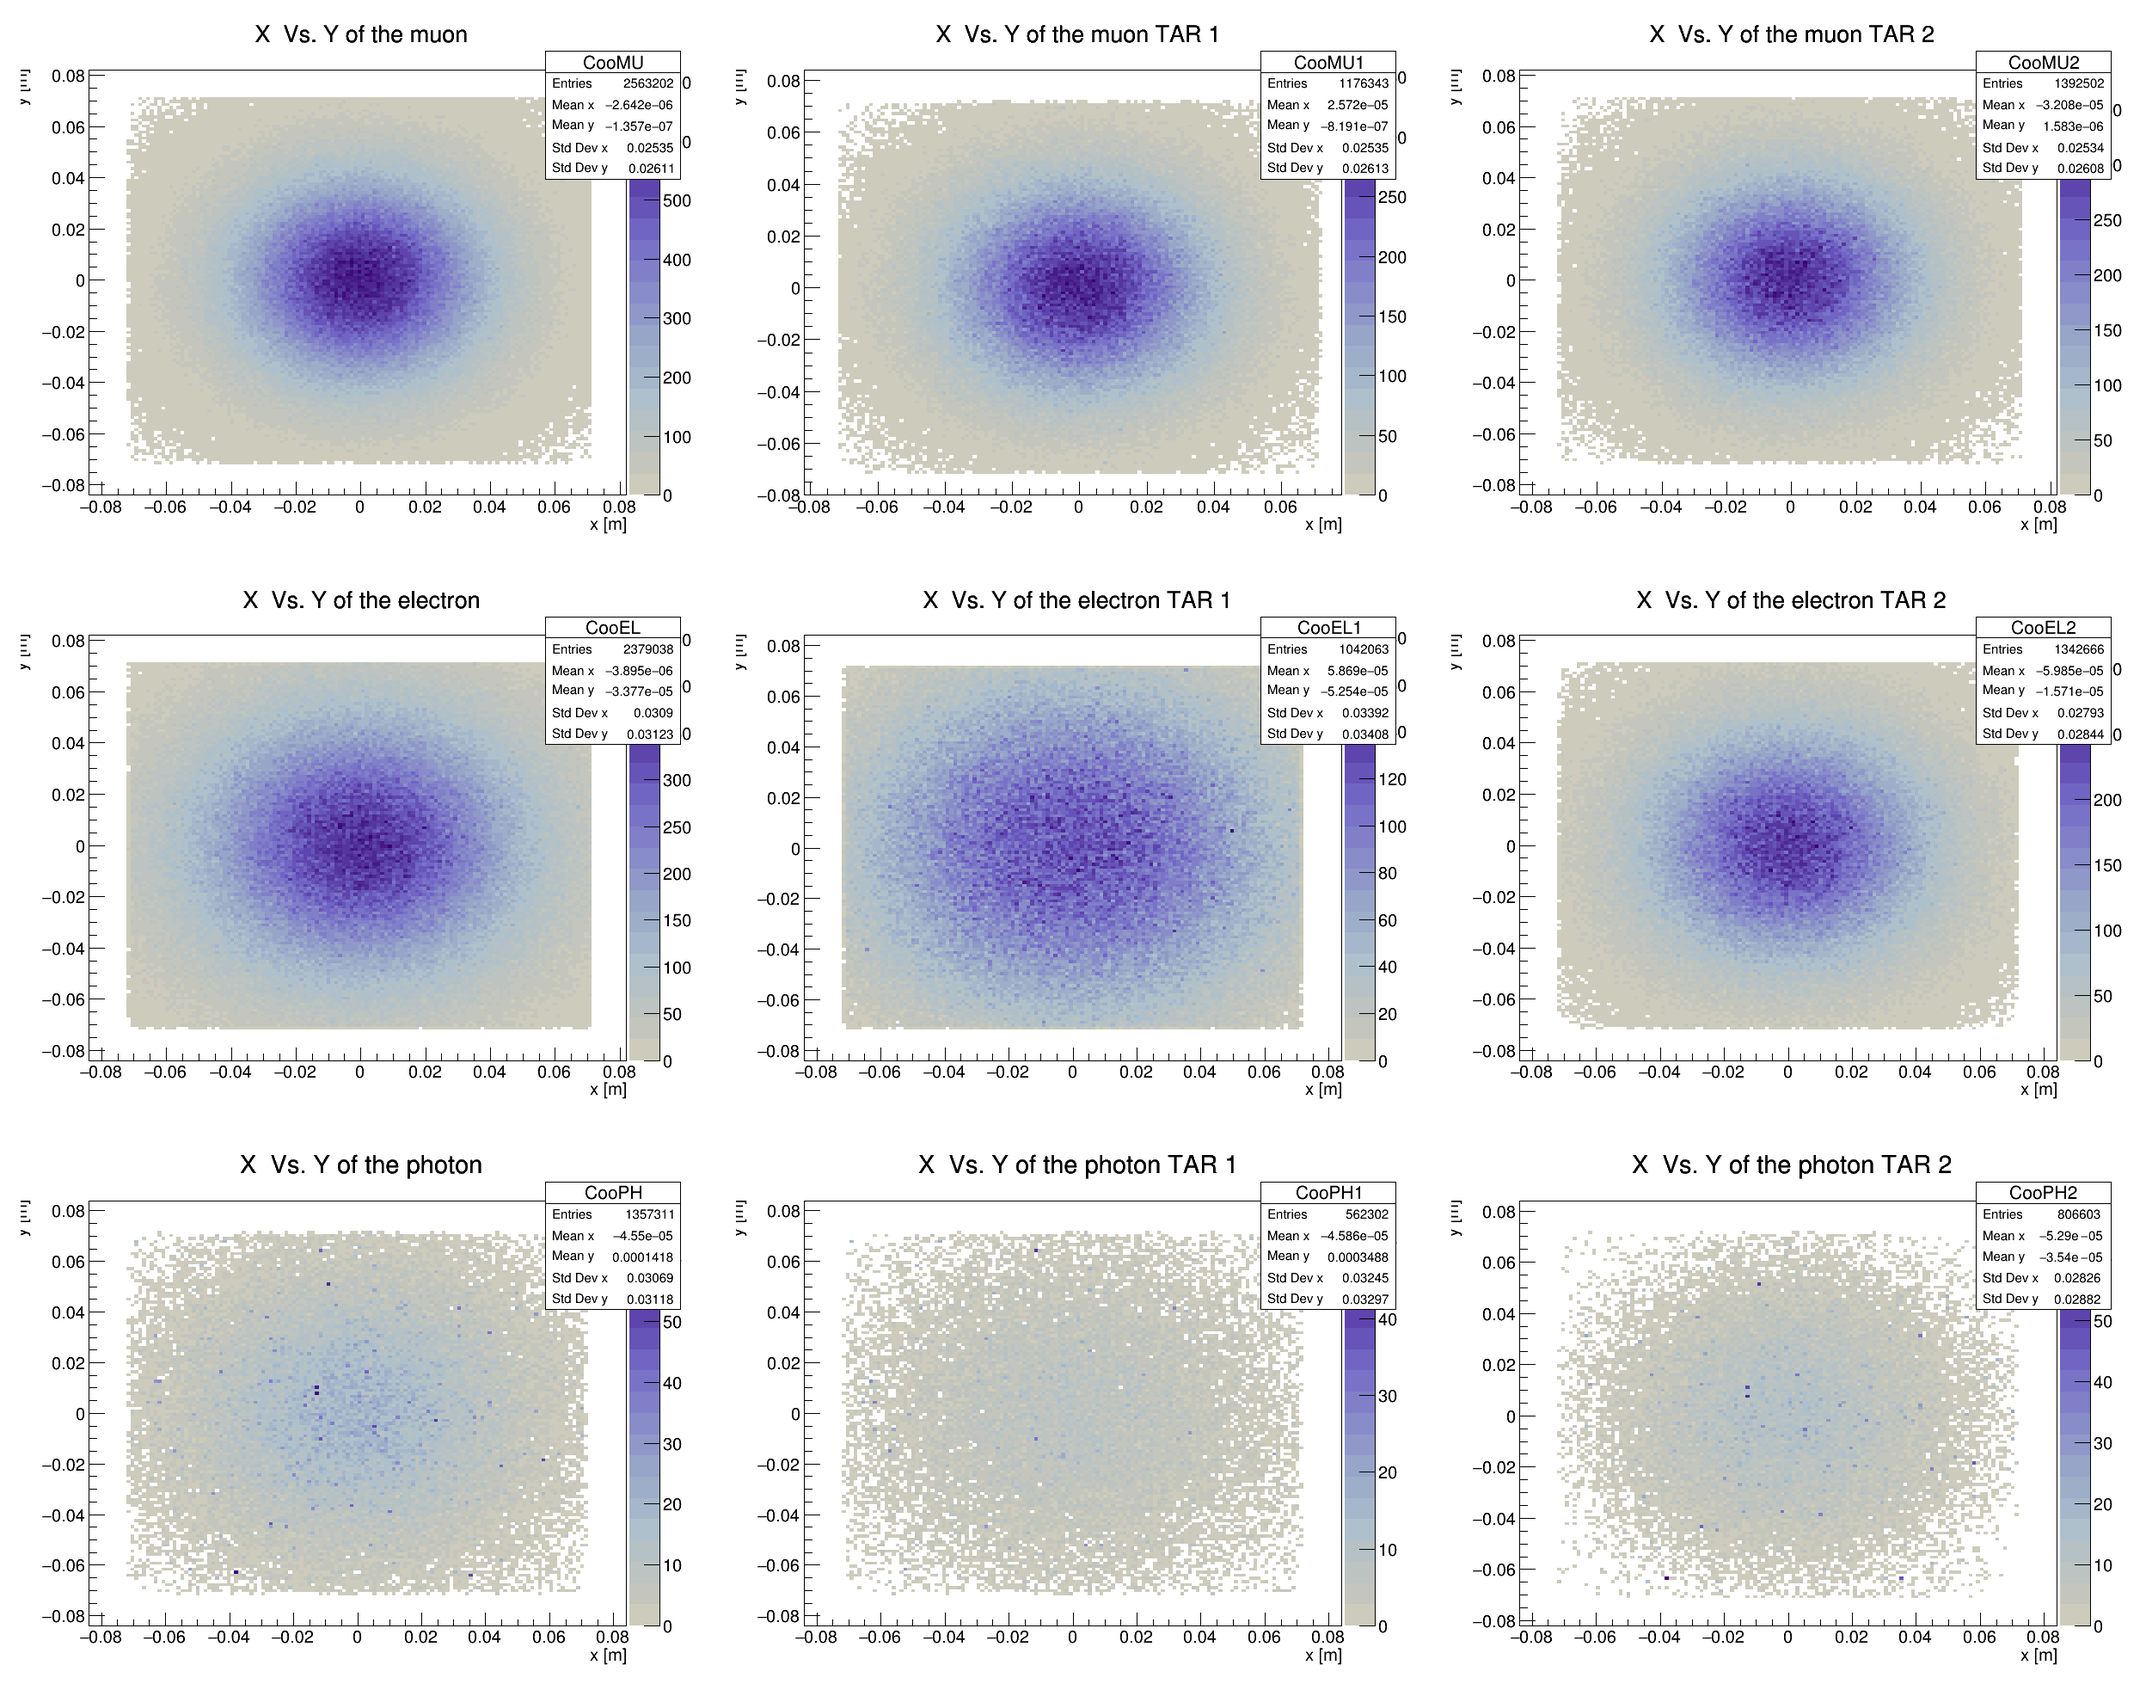
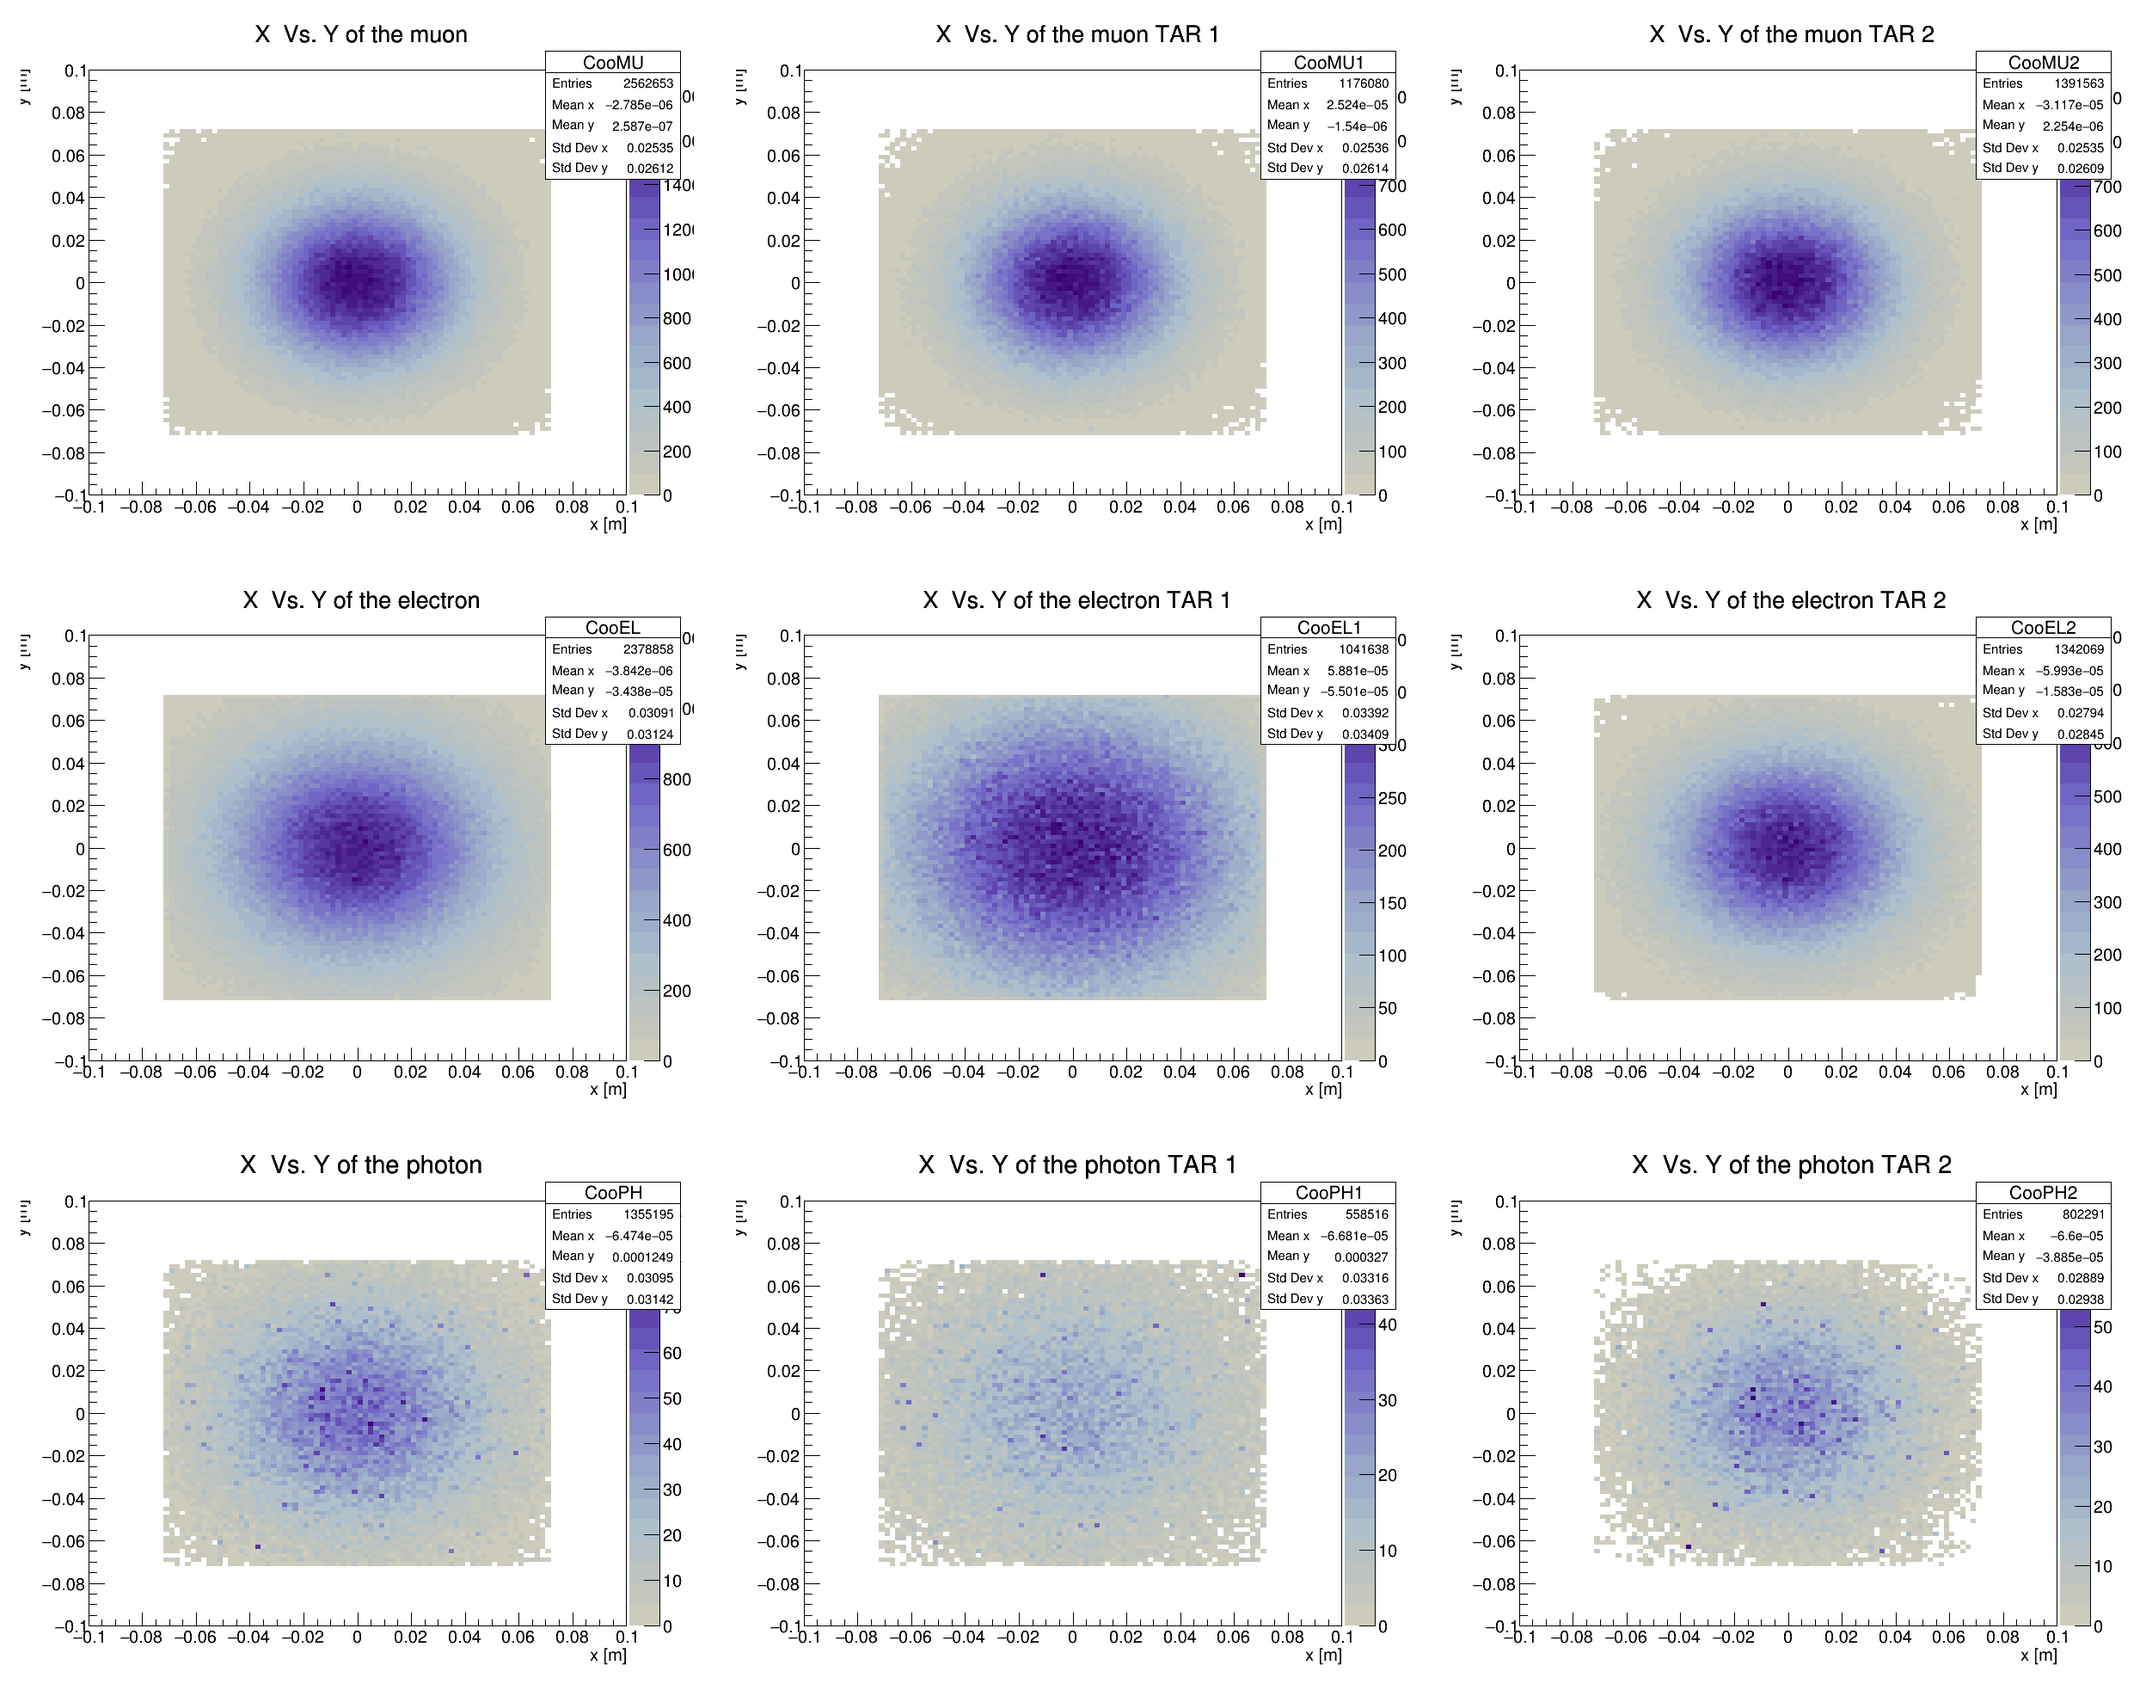
change

diff --git a/nextLO.C b/nextLO.C
@@ -97,7 +97,7 @@ TH2F  *Th_E_el2  = new TH2F("ThEel2" , " Theta el Vs. E_ECAL TAR 2",180,0,0.1,70
     else 
     {  E_ECAL=detKinBeamRot_Ee;}
 
-      if (E_ECAL>1 ){
+      if (E_ECAL>0.2){
         if (abs(detKinBeamRot_cooXmu) < 0.07125 && abs(detKinBeamRot_cooYmu) < 0.07125)
         {
             
@@ -115,7 +115,7 @@ TH2F  *Th_E_el2  = new TH2F("ThEel2" , " Theta el Vs. E_ECAL TAR 2",180,0,0.1,70
     thXZmu->Fill(anglex_mu,wgt_full);
     thYZmu->Fill(angley_mu,wgt_full);
             
-               if (detKinBeamRot_tar!=0 && detKinBeamRot_tar!=1)
+               if (detKinBeamRot_tar==0)
        
               {
         Emuout1->Fill(Emu_out,wgt_full); 
@@ -126,7 +126,7 @@ TH2F  *Th_E_el2  = new TH2F("ThEel2" , " Theta el Vs. E_ECAL TAR 2",180,0,0.1,70
         thYZmu1->Fill(angley_mu,wgt_full);
               }
             
-                if (detKinBeamRot_tar!=0 && detKinBeamRot_tar!=1)
+                if (detKinBeamRot_tar==1)
        
                {
         Emuout2->Fill(Emu_out,wgt_full); 
